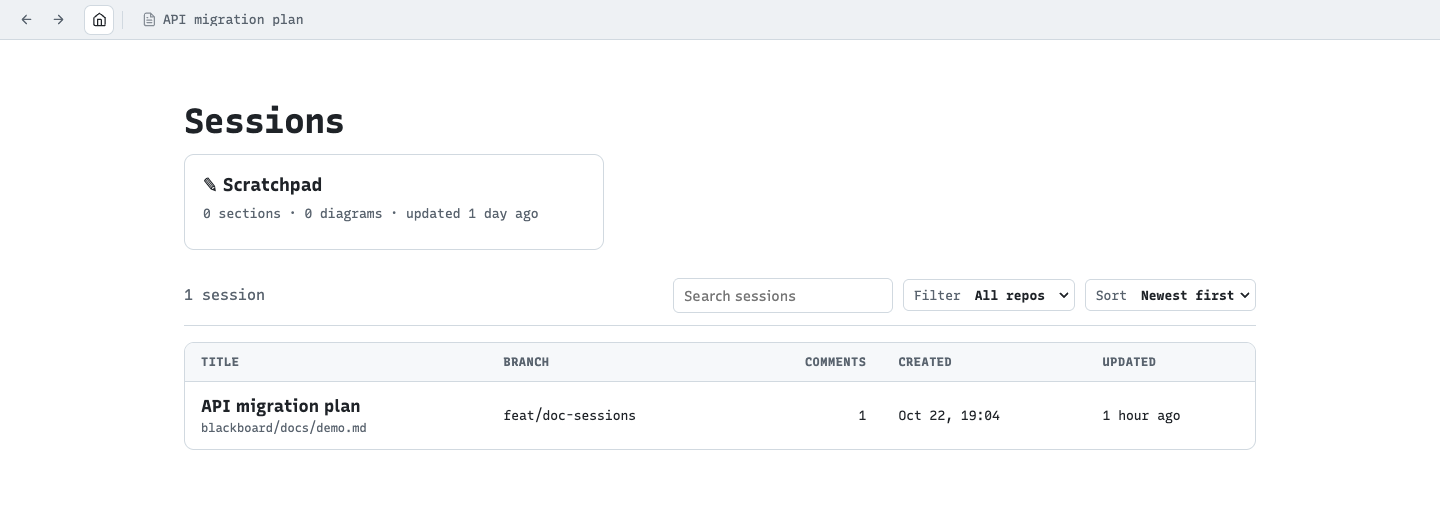
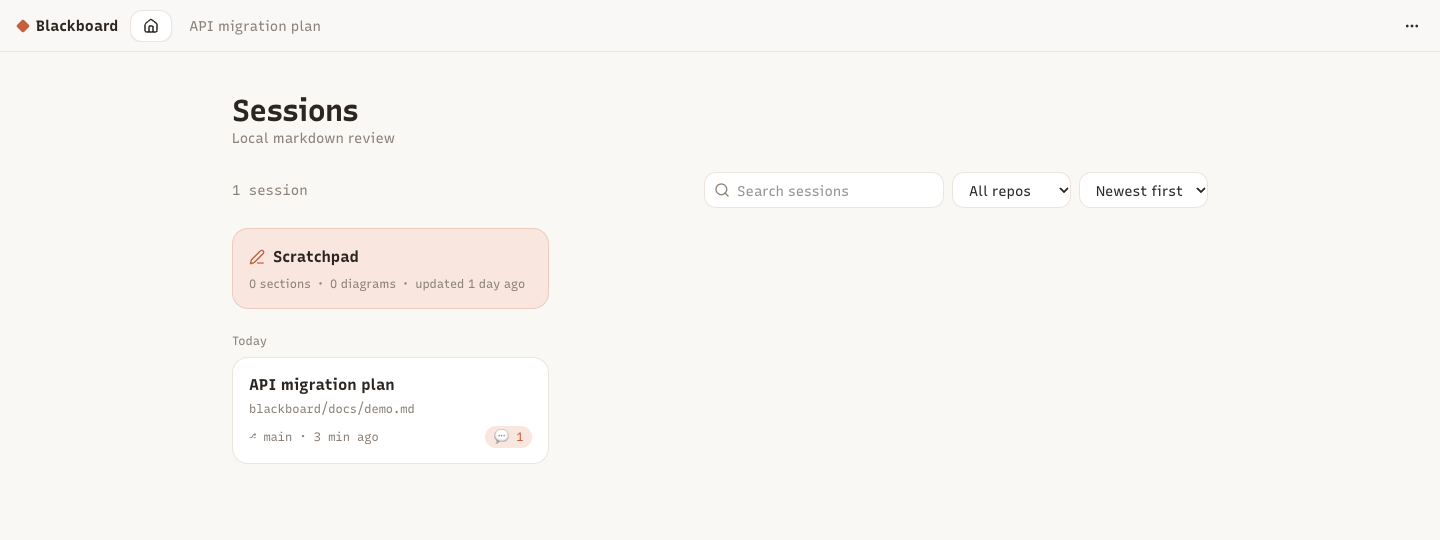
site: screenshots retaken on the 0.3 UI; QuBlack faces and mermaid spacing ported

diff --git a/site/index.html b/site/index.html
@@ -102,7 +102,7 @@ footer .cols { display: flex; flex-wrap: wrap; gap: 24px 48px; justify-content: 
 <section class="wrap">
   <h2 class="sec">Home</h2>
   <div class="shot">
-    <img src="assets/home.png" alt="Blackboard home: a scratchpad card and a sessions table with title, repo path, branch and open comment count" width="1440" height="513" loading="lazy">
+    <img src="assets/home.png" alt="Blackboard home: a scratchpad card and session cards with repo path, branch and open comment count" width="1440" height="540" loading="lazy">
   </div>
   <p class="cap">Every session is one markdown file on disk — where it lives and which branch it is on, at a glance. Click a highlight in the app to focus its comment; click a comment to scroll to the passage.</p>
 </section>

diff --git a/site/zh.html b/site/zh.html
@@ -102,7 +102,7 @@ footer .cols { display: flex; flex-wrap: wrap; gap: 24px 48px; justify-content: 
 <section class="wrap">
   <h2 class="sec">首页</h2>
   <div class="shot">
-    <img src="assets/home-zh.png" alt="Blackboard 首页：顶部是 Scratchpad 卡片，下面是会话表格，列出标题、仓库路径、分支和未解决评论数" width="1440" height="582" loading="lazy">
+    <img src="assets/home-zh.png" alt="Blackboard 首页：Scratchpad 卡片和会话卡片，显示仓库路径、分支和未解决评论数" width="1440" height="540" loading="lazy">
   </div>
   <p class="cap">每个会话就是磁盘上的一个 markdown 文件，在哪个仓库、哪条分支一目了然。点高亮定位评论，点评论跳回正文。</p>
 </section>
